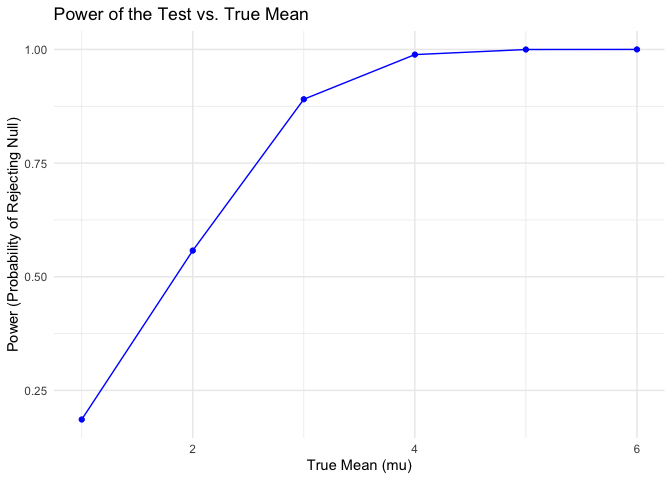
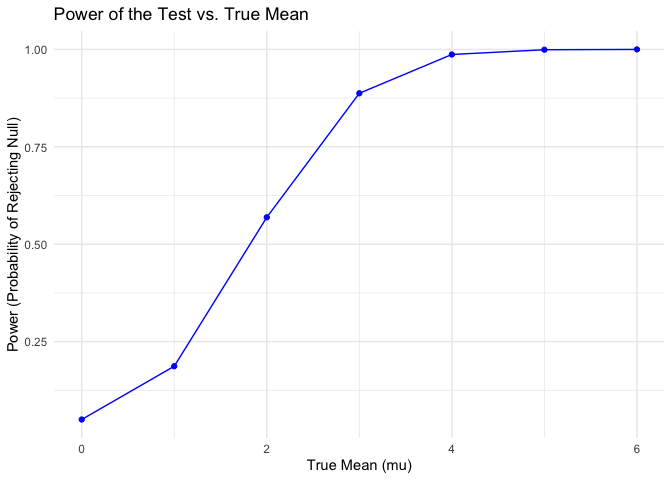
Code modification

diff --git a/p8105_hw5_fl2715.md b/p8105_hw5_fl2715.md
@@ -82,7 +82,7 @@ Then, we generate 5000 datasets for the model.
 ``` r
 sim_results_df = 
   expand_grid(
-    mu =1:6,
+    mu =0:6,
     iter = 1:5000
   ) |> 
   mutate(
@@ -155,10 +155,10 @@ mu_estimates |>
 For the samples where the null was rejected, the average estimate of
 ($`\hat{\mu}`$) tends to be slightly higher than the true value when
 true mean is equal to 1, 2, and 3. The average estimate of
-($`\hat{\mu}`$) is approximately equal to the true mean when true mean
-is equal to 4, 5, and 6. This is due to selection bias: tests are more
-likely to reject when sample means are further from zero, creating an
-upward bias in the average estimate when conditioning on rejection.
+($`\hat{\mu}`$) is equal to the true mean when true mean is equal to 0,
+4, 5, and 6. This is due to selection bias: tests are more likely to
+reject when sample means are further from zero, creating an upward bias
+in the average estimate when conditioning on rejection.
 
 ## Problem 3
 
